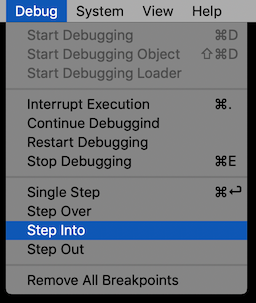
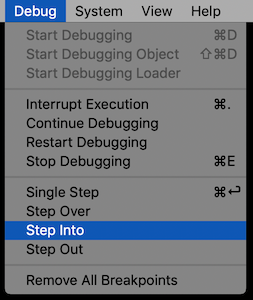
Started pe9asm Help -> Tracing assembler code.

diff --git a/pep9asm/help-asm/debuggingprograms.html b/pep9asm/help-asm/debuggingprograms.html
@@ -123,34 +123,102 @@ The memory dump pane highlights in red that part of memory that was changed by t
 <img src="qrc:/help-asm/images/stopdebuggingicon.png" alt="stopdebuggingicon" hspace=10 vspace=10>
 <p>
 
-
-
-
-
 <h3><a name="Assembler">Tracing assembler code</a></h3>
 
 If you are debugging an assembly language program that you wrote, enter the program in the Source Code pane.
-Assemble it by selecting Build&rarr;Assemble from the menu or clicking on the hammer icon in the tool bar.
+Or, if you want to trace a textbook example, select it from the column on the left and click the Copy to Source button.
 <p>
-<img src="qrc:/help-asm/images/assemble.png" alt="assemble" hspace=10 vspace=10>
-<img src="qrc:/help-asm/images/assembleicon.png" alt="assembleicon" hspace=10 vspace=10>
+<img src="qrc:/help-asm/images/copytosource.png" alt="copytosource" hspace=10 vspace=10>
 <p>
- Then select Build&rarr;Start Debugging Source from the menu, or click on the icon with the bug in the tool bar, which puts you in the debugging mode.
+Select Debug&rarr;Start Debugging from the menu, or click on the icon with the bug in the tool bar.
+The Start Debugging action does three things &mdash; clears memory to all zeros, assembles and loads the source program,
+and puts you in the debugging mode.
 <p>
 <img src="qrc:/help-asm/images/startdebuggingsource.png" alt="startdebuggingsource" hspace=10 vspace=10>
 <img src="qrc:/help-asm/images/startdebuggingicon.png" alt="startdebuggingicon" hspace=10 vspace=10>
 <p>
-<h4>Tracing in debug mode</h4>
-While you are in the debugging mode, you can click the Single Step button in the CPU pane,
-which will execute one von Neumann cycle of the CPU.
+The following sequence of figures shows the tracing steps when debugging the program of Figure 6.4
+with values 68 84 in the input stream.
+<p>
+<img src="qrc:/help-asm/images/fig0604input.png" alt="fig0604input" hspace=10 vspace=10>
+<p>
+The Start Debugging action activates the Debugger tab, which displays the Program Trace.
+The Program Trace shows the assembly language source code with the statement to be executed next highlighted in blue.
+With this program, the branch-to-main instruction is about to execute.
+<p>
+<img src="qrc:/help-asm/images/fig0604trace1.png" alt="fig0604trace1" hspace=10 vspace=10>
+<p>
+Select
+While you are in the debugging mode, you can select Debug&rarr;Single Step from the menu or click on
+the corresponding icon in the tool bar.
 <p>
 <img src="qrc:/help-asm/images/singlestep.png" alt="singlestep" hspace=10 vspace=10>
+<img src="qrc:/help-asm/images/singlestepicon.png" alt="singlestepicon" hspace=10 vspace=10>
 <p>
+The debugger will perform one von Neumann cycle.
+Namely, it will fetch the instruction, decode it, increment PC, and execute the instruction fetched.
+In this example, the branch instruction uses immediate addressing to put 0003 into PC.
+At each step of the trace you can also see the content of the CPU.
+At this point, the CPU pane shows the instruction specifier for <code>BR</code> in binary and the operand specifier 0003
+in hexadecimal.
+This is the instruction that was fetched and executed.
+The value of PC is the address of the instruction that will be executed next, in this case the <code>SUBSP</code> instruction.
+The program trace highlights the instruction that will be executed next, not the instruction that was
+just executed.
+<p>
+<img src="qrc:/help-asm/images/fig0604trace2.png" alt="fig0604trace2" hspace=10 vspace=10>
+<p>
+<img src="qrc:/help-asm/images/fig0604trace2cpu.png" alt="fig0604trace2cpu" hspace=10 vspace=10>
+<p>
+The following figures show the Program Trace and CPU after another single step, which executes the <code>SUBSP</code> instruction.
+The CPU shows the <code>SUBSP</code> instruction in the instruction specifier and 6 in the operand specifier.
+This is the instruction that was just executed.
+Also shown is the rendering of the run-time stack in the Memory Trace.
+The program trace highlights the <code>DECI</code> instruction, which will be executed next.
+<p>
+<img src="qrc:/help-asm/images/fig0604trace3.png" alt="fig0604trace3" hspace=10 vspace=10>
+<p>
+<img src="qrc:/help-asm/images/fig0604trace3cpu.png" alt="fig0604trace3cpu" hspace=10 vspace=10>
+<img src="qrc:/help-asm/images/fig0604trace3stack.png" alt="fig0604trace3stack" hspace=10 vspace=10>
+<p>
+Now the <code>DECI</code> instruction is about to execute.
+But, <code>DECI</code> is a trap instruction, which generates a trap to the operating system.
+Therefore, you have two trace options.
+If you select Single Step again, the debugger will execute all the code in the operating system
+for the <code>DECI</code> instruction and then show the state of the computer as if <code>DECI</code> were a single instruction.
+The Program Trace highlights the second <code>DECI</code> instruction, because that is the instruction
+that will be executed next.
+The Memory Trace shows that the <code>DECI</code> instruction input the value 68 to <code>exam1</code> on the run-time stack.
+The instruction specifier in the CPU shows that the last instruction executed is <code>RETTR</code>,
+which stands for "return from trap".
+This is the instruction in the operating system that returns control to the application.
+<p>
+<img src="qrc:/help-asm/images/fig0604trace4.png" alt="fig0604trace4" hspace=10 vspace=10>
+<p>
+<img src="qrc:/help-asm/images/fig0604trace4cpu.png" alt="fig0604trace4cpu" hspace=10 vspace=10>
+<img src="qrc:/help-asm/images/fig0604trace4stack.png" alt="fig0604trace4stack" hspace=10 vspace=10>
+<p>
+If you want to trace the execution of the statements in the operating system that implement the <code>DECI</code>
+instruction, you can choose the second trace option.
+Select Debug&rarr;Step Into from the menu or click on the corresponding icon in the tool bar.
+<p>
+<img src="qrc:/help-asm/images/stepinto.png" alt="stepinto" hspace=10 vspace=10>
+<img src="qrc:/help-asm/images/stepintoicon.png" alt="stepintoicon" hspace=10 vspace=10>
+<p>
+Blah blah
+<p>
+<img src="qrc:/help-asm/images/fig0604trace5.png" alt="fig0604trace5" hspace=10 vspace=10>
+<img src="qrc:/help-asm/images/fig0604trace5cpu.png" alt="fig0604trace5cpu" hspace=10 vspace=10>
+<p>
+
+
+
+
+
  The CPU pane shows you the values of the NZVC bits and of each register in the CPU.
- The following screenshot shows the CPU pane after one click of the Single Step button for the object program from Figure 4.35.
-<p>
-<img src="qrc:/help-asm/images/fig0435cpu.png" alt="fig0435cpupane" hspace=10 vspace=10>
-<p>
+ The following screenshot shows the CPU pane after one click of the Single Step button for the object program from
+ Figure 4.35.
+
 The CPU pane displays the content of the accumulator, index register, stack pointer, and program counter first in hexadecimal and
 then in decimal.
 It displays the instruction specifier first in binary, and then as a mnemonic.
